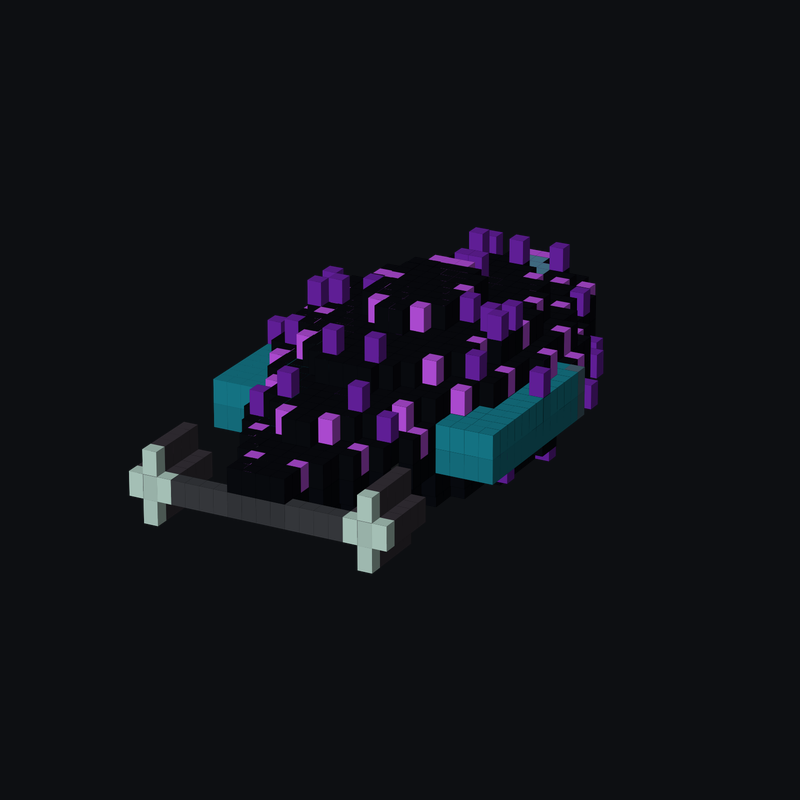
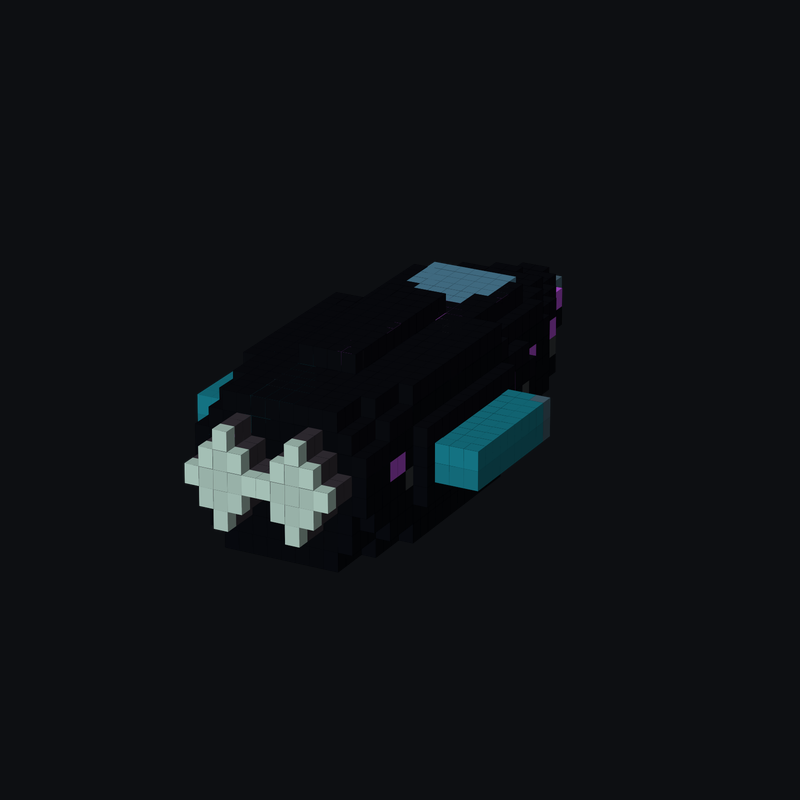
docs: v2 gallery regen, architecture + README updates, lint cleanup

Changed region(s): [[0.1562, 0.2812, 0.7812, 0.7188]]

diff --git a/tests/test_windows_v2.py b/tests/test_windows_v2.py
@@ -18,7 +18,7 @@ def test_windows_share_single_row():
     out = assign_roles(_slab_grid(), TextureParams())
     windows = np.argwhere(out == Role.WINDOW)
     assert len(windows) > 0
-    ys = set(int(y) for y in windows[:, 1])
+    ys = {int(y) for y in windows[:, 1]}
     assert len(ys) == 1, f"windows must sit in one row, got rows {sorted(ys)}"
 
 
@@ -30,25 +30,23 @@ def test_window_runs_at_least_two_long():
     by_col: dict[tuple[int, int], list[int]] = {}
     for x, y, z in windows:
         by_col.setdefault((int(x), int(y)), []).append(int(z))
-    for (x, y), zs in by_col.items():
+    for (x, _y), zs in by_col.items():
         zs = sorted(zs)
         run = 1
         runs: list[int] = []
-        for a, b in zip(zs, zs[1:]):
+        for a, b in zip(zs, zs[1:], strict=False):
             if b == a + 1:
                 run += 1
             else:
                 runs.append(run)
                 run = 1
         runs.append(run)
-        assert all(r >= 2 for r in runs), (
-            f"isolated window at x={x}: z-runs {runs}"
-        )
+        assert all(r >= 2 for r in runs), f"isolated window at x={x}: z-runs {runs}"
 
 
 def test_windows_only_on_side_faces():
     out = assign_roles(_slab_grid(), TextureParams())
     windows = np.argwhere(out == Role.WINDOW)
-    xs = set(int(x) for x in windows[:, 0])
+    xs = {int(x) for x in windows[:, 0]}
     # Slab spans x in [2, 8); side faces are x == 2 and x == 7.
     assert xs <= {2, 7}, f"windows must be side-facing only, got x={sorted(xs)}"

diff --git a/tests/test_cockpit_v2.py b/tests/test_cockpit_v2.py
@@ -7,8 +7,8 @@ import pytest
 
 from spaceship_generator.palette import Role
 from spaceship_generator.shape.blueprint import build_plan
-from spaceship_generator.shape.core import CockpitStyle, ShapeParams
 from spaceship_generator.shape.cockpit import _place_cockpit
+from spaceship_generator.shape.core import CockpitStyle, ShapeParams
 from spaceship_generator.shape.hull import _place_hull
 
 _NEIGHBORS = ((1, 0, 0), (-1, 0, 0), (0, 1, 0), (0, -1, 0), (0, 0, 1), (0, 0, -1))

diff --git a/tests/test_blueprint.py b/tests/test_blueprint.py
@@ -3,7 +3,6 @@
 from __future__ import annotations
 
 import numpy as np
-import pytest
 
 from spaceship_generator.shape.blueprint import (
     MASSING,
@@ -36,7 +35,7 @@ def test_segments_cover_hull_z_range_contiguously():
     segs = plan.segments
     assert segs[0].z0 == plan.engine.wall_z
     assert segs[-1].z1 == params.length
-    for prev, nxt in zip(segs, segs[1:]):
+    for prev, nxt in zip(segs, segs[1:], strict=False):
         assert prev.z1 == nxt.z0
 
 

diff --git a/src/spaceship_generator/shape/__init__.py b/src/spaceship_generator/shape/__init__.py
@@ -32,9 +32,9 @@ from .assembly import (
     _enforce_x_symmetry,
     _label_components,
 )
+from .blueprint import ShipPlan, build_plan
 from .cockpit import _place_cockpit
 from .core import CockpitStyle, ShapeParams, _body_profile, generate_shape
-from .blueprint import ShipPlan, build_plan
 from .engines import _place_engines
 from .greebles import _place_greebles, _surface_mask
 from .hull import _apply_hull_noise, _place_hull

diff --git a/scripts/bench_shape.py b/scripts/bench_shape.py
@@ -49,7 +49,6 @@ from spaceship_generator.shape import (  # noqa: E402
     _place_wings,
 )
 from spaceship_generator.shape.blueprint import build_plan  # noqa: E402
-from spaceship_generator.structure_styles import wing_prob_override  # noqa: E402
 
 # Stage names in canonical pipeline order. Used as the row order for the
 # summary table so output is deterministic across runs.

diff --git a/docs/architecture.md b/docs/architecture.md
@@ -304,25 +304,47 @@ greeble_density / cockpit_style / structure_style / wing_style, validated in
 `integrated`, `canopy_dome`, `wrap_bridge`, `offset_turret`), the legacy
 `_body_profile(t)` taper, and the top-level `generate_shape(seed, params,
 *, hull_style=None) -> np.ndarray`. `generate_shape` constructs the
-`np.random.default_rng(seed)`, allocates the empty `(W, H, L)` int8 grid,
-dispatches each placement stage in order, and applies the symmetry +
-floater-bridging finalization. When `hull_style` is `None` it calls
-`_place_hull`; when set, it stamps the base hull via
-`apply_hull_style(grid, hull_style)` from `structure_styles` instead, then
-runs the rest of the pipeline unchanged.
+`np.random.default_rng(seed)`, builds the `ShipPlan` blueprint via
+`build_plan(rng, params, hull_style)`, allocates the empty `(W, H, L)` int8
+grid, dispatches each placement stage in order (each receives the plan),
+and applies the symmetry + floater-bridging finalization.
+
+### `blueprint.py`
+
+The v2 planning stage. `build_plan(rng, params, hull_style)` draws all
+per-seed variation up front and returns a frozen `ShipPlan`:
+
+* `segments` — 3–4 `HullSegment`s (engine / mid / fore / nose), each with a
+  z-range, linearly-interpolated cross-section half-sizes, and a
+  superellipse exponent. `ShipPlan.hull_half_at(z)` resolves the
+  cross-section for any slice.
+* `engine` — `EnginePlan`: rear-wall z (`wall_z`), symmetric nozzle X
+  positions (`_nozzle_positions`), nozzle radius, and optional side-nacelle
+  pod geometry.
+* `wing` — `WingPlan`: presence roll, planform style, root z / chord /
+  span / thickness / vertical anchor.
+* `cockpit` — `CockpitPlan`: deck rectangle (z-range + half-width) + style.
+
+Per-`HullStyle` massing lives in the `MASSING` config table
+(`MassingConfig`: width/height fractions, superellipse exponent, nose/tail
+fractions, tip fraction, wing bias, nacelle probability); a parallel
+`_STRUCTURE_MASSING` table supplies defaults per `StructureStyle` when no
+hull style is given. Because every placer reads the same plan, parts align
+by construction — the cockpit knows its deck rect, engines know the rear
+wall, wings know the hull half-width at their root.
 
 ### `hull.py`
 
-Single function: `_place_hull(grid, rng, params)`. Inputs the empty grid,
-the seeded RNG (used only for a small `0.9 + rng.random() * 0.1` thickness
-jitter), and `ShapeParams`. Output: the grid with `Role.HULL` voxels filling
-a tapered ellipsoid-of-revolution along Z. The taper profile and the X / Y
-radius scales are picked per `params.structure_style` via
-`profile_fn(structure_style)` and `hull_rx_ry_scale(structure_style)` from
-`structure_styles`; `FRIGATE` reproduces the legacy profile byte-for-byte.
-This stage is the membrane of the ship — every later stage either modifies
-hull voxels (cockpit, integrated/wrap variants) or attaches new voxels
-adjacent to it.
+`_place_hull(grid, rng, params, plan)` fills each planned segment with
+superellipse cross-sections: `|dx/half_w|^n + |dy/half_h|^n <= 1`.
+Exponent `n = 2` is an ellipse, `n ≈ 4` a rounded rectangle with flat side
+panels and a flat deck, `n >= 8` a chamfered box. Flat faces are the point:
+they give windows, greeble patches, and cockpits something to sit on. The
+hull starts at `plan.engine.wall_z`, leaving `[0, wall_z)` empty for the
+engine nozzles to protrude into. `_place_hull_blend(grid, rng, params,
+front, rear, midband=...)` cosine-blends two styles' planned cross-sections
+along Z (both planned from one derived sub-seed so their jitters match) and
+returns the rear style's plan for downstream part anchoring.
 
 ### `assembly.py`
 
@@ -342,61 +364,56 @@ bridged back to the main mass before the final mirror pass.
 
 ### `cockpit.py`
 
-`_place_cockpit(grid, rng, params)` dispatches on
+`_place_cockpit(grid, rng, params, plan)` dispatches on
 `default_cockpit_for(structure_style, cockpit_style)` from `structure_styles`
-(structure style can override the requested cockpit). Six concrete
-placers, each writing `Role.COCKPIT_GLASS` (and occasionally framing
-`Role.HULL`) on the forward upper hull: `_place_cockpit_bubble` (small
-ellipsoidal bulge), `_place_cockpit_pointed` (tapered cone canopy
-narrowing to the nose), `_place_cockpit_integrated` (flat strip — converts
-the topmost hull voxels into glass without growing the silhouette),
-`_place_canopy_dome` (low half-ellipsoid dome with a one-row hull collar),
-`_place_wrap_bridge` (panoramic glass band one row above the hull top with a
-hull roof on its edges), and `_place_offset_turret` (asymmetric raised
-turret — deliberately breaks X-symmetry, restored later by the assembly
-mirror). RNG is unused here; cockpit shape is purely a function of
-`ShapeParams` and grid dimensions.
+(structure style can override the requested cockpit). Every variant is
+*framed*: it finds the hull's top deck inside `plan.cockpit`'s rectangle and
+places glass such that every glass voxel touches HULL. Recessed variants —
+`_place_bubble` (elliptical footprint), `_place_pointed` (nose-tapering
+strip that runs 2 slices past the rect), `_place_integrated` (full-rect
+strip with a 1-cell hull border, border dropped on cramped rects) — replace
+deck-top hull cells. Raised variants — `_place_canopy_dome` (glass dome
+core + hull collar ring one row above deck), `_place_wrap_bridge`
+(2-high hull bridge with a wrap-around glass band, extended to the nose),
+`_place_offset_turret` (offset hull turret with glass cap; asymmetry
+restored by the assembly mirror) — grow up from the deck. RNG is unused.
 
 ### `wings.py`
 
-Single function: `_place_wings(grid, rng, params)`. This module owns only
-the placement-box math; the actual cell-writing pattern lives in
-`spaceship_generator.wing_styles.place_wings`. Reads
-`wing_size_scale(params.structure_style)` to scale span / thickness /
-length, computes `cy` from grid height, draws `cz` from a small RNG
-integer offset around `L // 3`, clamps the wing length so it fits the grid,
-and calls `wing_styles.place_wings(grid, params.wing_style, span=...,
-thickness=..., length=..., cy=..., cz=..., y_lo=..., y_hi=...)` to write
-the left wing as `Role.WING`. The right wing is produced later by
-`_enforce_x_symmetry`. Whether this stage runs at all is decided in
-`generate_shape` against `wing_prob_override(structure_style, wing_prob)`.
+`_place_wings(grid, rng, params, plan)`. The planform outline still comes
+from `spaceship_generator.wing_styles.place_wings` (straight / swept /
+delta / tapered / gull / split); v2 changes the box it is drawn in. The
+wing runs from the grid edge (`x = 0`, the tip) all the way *into* the hull
+volume — 2 voxels past the hull surface at the chord midpoint — so the root
+is embedded. The outline is stamped on a scratch grid and merged into EMPTY
+cells only, so hull voxels are never overwritten; the embedded root
+guarantees face contact at every chord slice. Geometry (root z, chord,
+span, thickness ≥ 2, y anchor) comes from `plan.wing`; whether the stage
+runs is `plan.wing.present` (single roll drawn in `build_plan`).
 
 ### `engines.py`
 
-`_place_engines(grid, rng, params)` and the helper `_engine_x_positions(n,
-width, radius)`. Reads
-`engine_count_override(structure_style, params.engine_count)` for `n` (zero
-short-circuits the stage), then computes `engine_length = max(2, L // 8)`,
-a base radius from `min(W, H) // 10`, and the final radius from
-`engine_radius_scale(structure_style)`. `_engine_x_positions` lays out
-`n` symmetric X positions clamped into `[radius, W - 1 - radius]` (and
-collapses every engine to the ship center if the grid is too narrow to fit
-`n` distinct positions). Each position stamps a circular cross-section of
-`Role.ENGINE` voxels from `z = 0` for `engine_length` steps along Z. RNG is
-not consumed — engine geometry is fully deterministic in style + dimensions.
+`_place_engines(grid, rng, params, plan)`. Nozzles are stamped as ENGINE
+discs protruding into the empty `[0, wall_z)` zone behind the hull's rear
+wall (plus one slice of overlap to weld), with a HULL rim ring on the wall
+face so each thruster reads as mounted structure. Nozzle count / radius /
+positions come from `plan.engine`. When `plan.engine.nacelles` is set,
+`_place_nacelles` adds two side pods (HULL discs per slice) welded to the
+hull by 2-voxel-thick pylons, each pod with its own small rear nozzle.
+RNG is not consumed — engine geometry is fully deterministic in the plan.
 
 ### `greebles.py`
 
-`_place_greebles(grid, rng, params)` and the helper `_surface_mask(grid)`.
-Skips the stage when `params.greeble_density <= 0`. `_surface_mask` returns
-a boolean grid of "filled voxels with at least one empty 6-neighbor"
-(out-of-bounds counts as empty so the outer shell qualifies). The placer
-shuffles those surface coordinates with `rng.permutation`, walks the first
-`int(len(coords) * greeble_density)` of them, and on cells whose role is
-`HULL` or `WING` it picks the first 6-direction neighbor (preferring up,
-then sideways, then forward / back) that is `Role.EMPTY` and writes
-`Role.GREEBLE` there. Greebles therefore protrude *outside* existing
-geometry and never overwrite hull/wing/engine/cockpit voxels.
+`_place_greebles(grid, rng, params, plan)` and the helper
+`_surface_mask(grid)`. v2 replaces the old single-voxel sprinkle with
+rectangular *patches* stamped on flat deck areas of the engine + mid
+segments (clear of the cockpit rect). `_deck_tops` finds exposed flat hull;
+each of `round(greeble_density * 40)` attempts picks a rect and a motif:
+`panel_outline` (raised border ring), `vent_row` (alternating raised rows),
+`pipe_run` (centerline pipe with end couplings), `antenna_cluster` (2–4
+voxel corner masts). A flatness gate skips uneven ground, and every motif
+writes contiguous GREEBLE cells above HULL into EMPTY space only — no
+isolated one-voxel bumps survive.
 
 ### `assembly.py` (final pass)
 
@@ -477,9 +494,9 @@ preserve legacy behavior byte-for-byte. CLI plumbing: `--hull-style`,
 
 ### Relationship to symmetry
 
-All three hull placers stamp voxels via the centred ellipsoid test
-`((x-cx)/rx)**2 + ((y-cy)/ry)**2 <= 1.0` with `cx = (W-1)/2`, so the
-membrane is bilaterally symmetric in X by construction. The final
+All hull placers stamp voxels via the centred superellipse test
+`|(x-cx)/half_w|**n + |(y-y_center)/half_h|**n <= 1.0` with `cx = (W-1)/2`,
+so the membrane is bilaterally symmetric in X by construction. The final
 `_enforce_x_symmetry` → `_connect_floaters` → `_enforce_x_symmetry`
 restamps symmetry against asymmetry from `_place_offset_turret`, the
 greeble/wing pickers, and `_apply_hull_noise`.
@@ -501,8 +518,8 @@ and the right wing is produced later by the assembly mirror.
 ```mermaid
 flowchart LR
   engines[shape/engines.py<br/>_place_engines]
-  gate[generate_shape<br/>rng.random&lt;wing_prob_override]
-  wings[shape/wings.py<br/>_place_wings<br/>placement-box math]
+  gate[generate_shape<br/>plan.wing.present]
+  wings[shape/wings.py<br/>_place_wings<br/>plan-driven wing box]
   styles[wing_styles.py<br/>place_wings dispatch]
   greebles[shape/greebles.py<br/>_place_greebles]
   mirror[assembly.py<br/>mirror+connect+mirror]
@@ -510,12 +527,12 @@ flowchart LR
   engines --> gate --> wings --> styles --> greebles --> mirror
 ```
 
-Whether the stage runs at all is decided in `generate_shape`
-(`shape/core.py`) against `rng.random() <
-wing_prob_override(structure_style, params.wing_prob)`, so some
-structure styles can suppress wings entirely. When it runs, only the
-left half (`x < W/2`) is written; the right wing is produced by the
-final `_enforce_x_symmetry` pass.
+Whether the stage runs at all is decided by `plan.wing.present` — a
+single probability roll drawn in `build_plan` against
+`wing_prob_override(structure_style, params.wing_prob)` (times the hull
+style's `wing_bias`), so some structure styles can suppress wings
+entirely. When it runs, only the left half (`x < W/2`) is written; the
+right wing is produced by the final `_enforce_x_symmetry` pass.
 
 ### `WingStyle` (in `wing_styles.py`)
 
@@ -532,21 +549,22 @@ writing only `Role.WING` on the left half: `_place_straight`
 (rectangular slab), `_place_swept` (parallelogram, tip shifted rearward
 ~60% of span), `_place_delta` (triangle in plan view, root `span`
 shrinking to 1 at the nose-side tip), `_place_tapered` (straight
-leading edge, chord shrinks to ~40% at tip), `_place_gull` (inner half
-flat, outer half rises one Y per X past the knee), and `_place_split`
+leading edge, chord shrinks to ~40% at tip), `_place_gull` (root half
+flat against the hull, tip half rises one Y per X toward the wing tip),
+and `_place_split`
 (two thinner wings stacked with a vertical gap — biplane-style). All
 styles clip to grid bounds, so pathologically small inputs cannot write
 out-of-bounds.
 
 ### `shape/wings.py`
 
-Single function `_place_wings(grid, rng, params)` owns only the
+Single function `_place_wings(grid, rng, params, plan)` owns only the
 placement-box math — the cell-writing pattern lives in
-`wing_styles.place_wings`. Reads `wing_size_scale(params.structure_style)`
-from `structure_styles.py` to scale span / thickness / length, computes
-`cy` from grid height, draws `cz` from a small `rng.integers` offset
-around `L // 3`, clamps wing length to fit the grid, then forwards
-`params.wing_style` and the computed box to `wing_styles.place_wings`.
+`wing_styles.place_wings`. The wing box runs from the grid edge into the
+hull volume (2 voxels past the hull surface at the chord midpoint) so the
+root is embedded; geometry comes from `plan.wing`. The outline is stamped
+on a scratch grid and merged into EMPTY cells only, so hull voxels are
+never overwritten.
 
 ### `wing_style` and `ShapeParams.wing_style`
 
@@ -753,22 +771,19 @@ import away in `shape/cockpit.py` and the public knob is the
 
 ### `shape/cockpit.py`
 
-Single entry point: `_place_cockpit(grid, rng, params)` — *"Attach a
-cockpit to the nose of the ship."* It calls `default_cockpit_for(
-params.structure_style, params.cockpit_style)` from `structure_styles`
-(currently a pass-through hook so the user's choice always wins) and
-dispatches to one of six concrete placers, each writing
-`Role.COCKPIT_GLASS` (and occasionally framing `Role.HULL`) on the
-forward upper hull: `_place_cockpit_bubble` (small ellipsoidal bulge),
-`_place_cockpit_pointed` (tapered cone canopy narrowing to the nose),
-`_place_cockpit_integrated` (flat strip — converts the topmost hull
-voxels into glass without growing the silhouette), `_place_canopy_dome`
-(low half-ellipsoid dome with a one-row hull collar), `_place_wrap_bridge`
-(panoramic glass band one row above the hull top with a hull roof on its
-edges), and `_place_offset_turret` (asymmetric raised turret —
-deliberately breaks X-symmetry, restored later by the assembly mirror).
-RNG is unused; cockpit shape is purely a function of `ShapeParams` and
-grid dimensions.
+Single entry point: `_place_cockpit(grid, rng, params, plan)`. It calls
+`default_cockpit_for(params.structure_style, plan.cockpit.style)` from
+`structure_styles` (currently a pass-through hook so the user's choice
+always wins) and dispatches to one of six concrete placers, all anchored
+to the deck rectangle in `plan.cockpit` and all guaranteeing that every
+glass voxel touches HULL: `_place_bubble` (recessed elliptical canopy),
+`_place_pointed` (recessed nose-tapering strip), `_place_integrated`
+(recessed full-rect strip with hull border), `_place_canopy_dome` (raised
+glass dome + hull collar), `_place_wrap_bridge` (raised 2-high bridge with
+wrap-around glass band, extended to the nose), and `_place_offset_turret`
+(offset raised turret with glass cap — deliberately breaks X-symmetry,
+restored later by the assembly mirror). RNG is unused; cockpit shape is
+purely a function of the plan and grid dimensions.
 
 ### `cockpit_style` and `ShapeParams.cockpit_style`
 
@@ -804,7 +819,7 @@ the caller asked for an `EngineStyle` archetype.
 ```mermaid
 flowchart LR
   cockpit[shape/cockpit.py<br/>_place_cockpit]
-  default[shape/engines.py<br/>_place_engines<br/>cylinder fallback]
+  default[shape/engines.py<br/>_place_engines<br/>planned nozzles + nacelles]
   rest[wings → greebles → mirror+connect+mirror]
   wipe[generator.py<br/>clear ENGINE/ENGINE_GLOW<br/>if engine_style set]
   override[engine_styles.py<br/>build_engines dispatch]

diff --git a/README.md b/README.md
@@ -11,14 +11,15 @@ New here? See [docs/quickstart.md](docs/quickstart.md) for a 5-minute getting-st
 ## Pipeline
 
 ```
-seed + params  →  3D voxel shape  →  role assignment  →  palette lookup  →  .litematic
-                  (parts + mirror     (hull / window /    (YAML config)
-                   symmetry)           engine / etc.)
+seed + params  →  ship blueprint  →  3D voxel shape  →  role assignment  →  palette lookup  →  .litematic
+                  (segments, wings,   (superellipse hull   (hull / window /    (YAML config)
+                   engines, cockpit)   + planned parts)      engine / etc.)
 ```
 
 ## Features
 
-- Parts-based procedural generation (hull, cockpit, engines, wings, greebles)
+- Blueprint-driven structured massing: segmented superellipse hulls with flat panels and chamfered corners, so parts align by construction
+- Visible thrusters (protruding nozzles + optional side nacelles), framed deck cockpits, hull-rooted wings, clustered machinery greebles, window rows
 - Bilateral symmetry for recognisable ship silhouettes
 - Seed-reproducible — same seed always produces the same ship
 - 10 hull silhouettes, 9 engine styles, 6 wing silhouettes (see [Styles](#styles))
